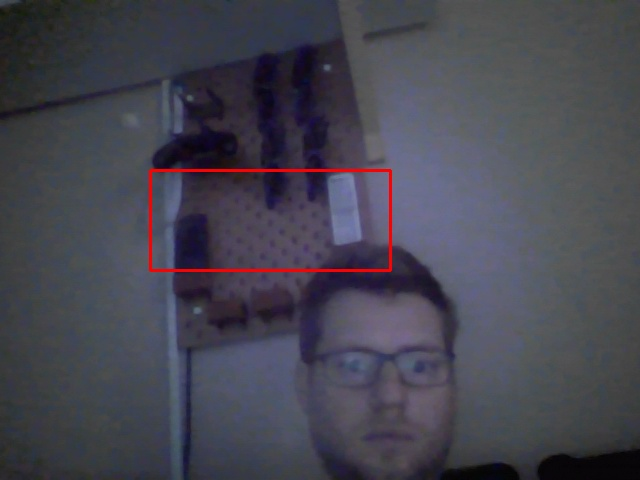
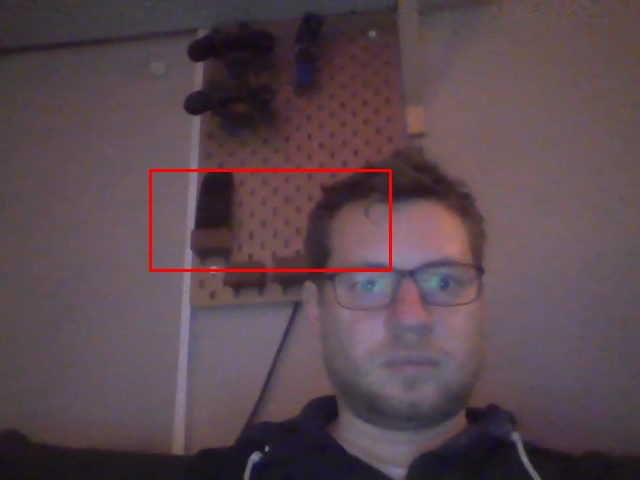
get_color: list complehension

diff --git a/modules/colorgrabber.py b/modules/colorgrabber.py
@@ -8,8 +8,9 @@ from modules.utils import config
 
 class ColorGrabber(threading.Thread):
     _frame = None
-    running = False
     _instance = None
+    _indices = None
+    running = False
 
     def __new__(cls, *args, **kwargs):
         if cls._instance is None:
@@ -82,38 +83,50 @@ class ColorGrabber(threading.Thread):
             yield b'--frame\r\nContent-Type: image/jpeg\r\n\r\n' + frame + b'\r\n'
             sleep(0.3)
 
-    def get_colors(self, frame):
-        colors = []
+    @property
+    def indices(self):
+        if self._indices is not None:
+            return self._indices
 
+        indices = []
         for x in linspace(
             (config.window['x0'] + config.window['x1']) / 2,
             config.window['x1'],
             int(config.lights['bottom'] / 2),
         ):
-            colors.append(frame[int(config.window['y1']), int(x)])
+            indices.append([int(config.window['y1']), int(x)])
 
         for y in linspace(
             config.window['y1'], config.window['y0'], config.lights['right']
         ):
-            colors.append(frame[int(y), int(config.window['x1'])])
+            indices.append([int(y), int(config.window['x1'])])
 
         for x in linspace(
             config.window['x1'], config.window['x0'], config.lights['top']
         ):
-            colors.append(frame[int(config.window['y0']), int(x)])
+            indices.append([int(config.window['y0']), int(x)])
 
         for y in linspace(
             config.window['y0'], config.window['y1'], config.lights['left']
         ):
-            colors.append(frame[int(y), int(config.window['x0'])])
+            indices.append([int(y), int(config.window['x0'])])
 
         for x in linspace(
             config.window['x0'],
             (config.window['x0'] + config.window['x1']) / 2,
             int(config.lights['bottom'] / 2),
         ):
-            colors.append(frame[int(config.window['y1']), int(x)])
+            indices.append([int(config.window['y1']), int(x)])
 
+        self._indices = indices
+        return self._indices
+
+    @indices.setter
+    def indices(self, indices):
+        self._indices = indices
+
+    def get_colors(self, frame):
+        colors = [frame[y][x] for y, x in self.indices]
         self.frame = frame
         return colors
 
@@ -141,6 +154,7 @@ class ColorGrabber(threading.Thread):
             self.tn.stop()
             ColorGrabber._instance = None
             self._frame = None
+            self._indices = None
 
     def stop(self):
         self.running = False

diff --git a/app.py b/app.py
@@ -140,22 +140,23 @@ def dt():
 def window(cmd: str):
     print(cmd)
     if cmd == 'll':
-        config.window['x0'] -= 10
+        config.window['x0'] -= 5
     if cmd == 'lr':
-        config.window['x0'] += 10
+        config.window['x0'] += 5
     if cmd == 'rl':
-        config.window['x1'] -= 10
+        config.window['x1'] -= 5
     if cmd == 'rr':
-        config.window['x1'] += 10
+        config.window['x1'] += 5
     if cmd == 'oo':
-        config.window['y0'] -= 10
+        config.window['y0'] -= 5
     if cmd == 'ou':
-        config.window['y0'] += 10
+        config.window['y0'] += 5
     if cmd == 'uo':
-        config.window['y1'] -= 10
+        config.window['y1'] -= 5
     if cmd == 'uu':
-        config.window['y1'] += 10
+        config.window['y1'] += 5
     save_config()
+    ColorGrabber().indices = None
     return RedirectResponse('/')
 
 

diff --git a/modules/test2.py b/modules/test2.py
@@ -1,4 +1,5 @@
-from utils import config
+import numpy as np
 
-# print(config.to_json())
-print(config.hallo)
+a = np.array([[[1,2], [3,4]], [[5,6], [7,8]]])
+
+print(a[0,0;1,0])
